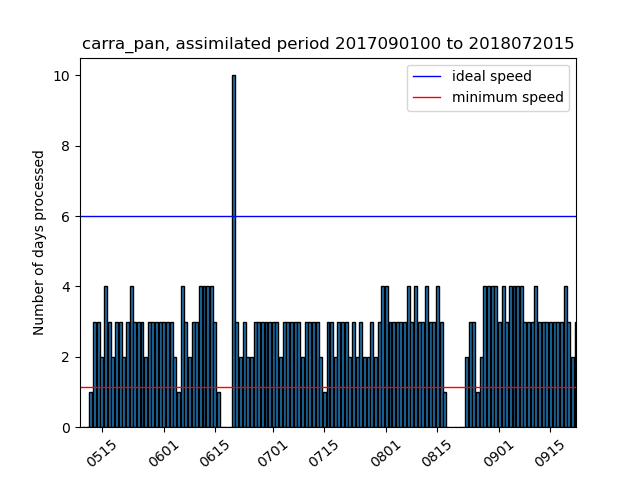
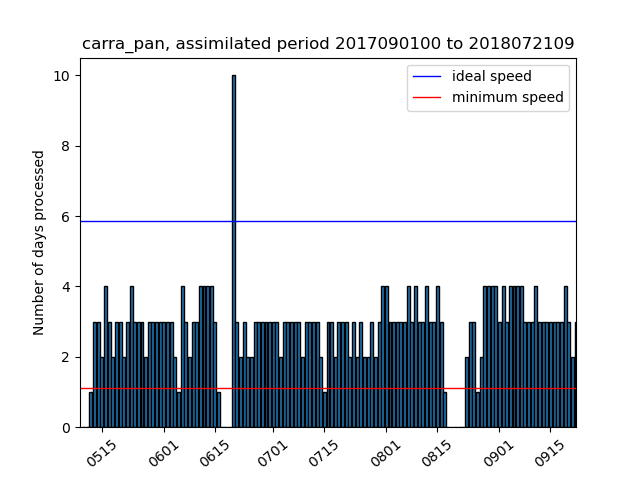
update repo

Changed region(s): [[0.125, 0.7812, 0.9062, 0.8125], [0.125, 0.4375, 0.9062, 0.4688], [0.8438, 0.0625, 0.9062, 0.125]]

diff --git a/current_state_sims.html b/current_state_sims.html
@@ -2,18 +2,18 @@
 <h1>Estimated completion dates and simulation speeds</h1>
 <p>Stream (production) completion date based on 30d (7d) moving avg speed</p>
 <p><a href="https://docs.google.com/document/d/1zDKAxuEXYnWWYzT3SZnZwY5WW8nodUMeYRjAGz46coc/edit#">Details of the calculation of the completion dates</a></p>
-<p>Last update: 2021/09/23 12:44:38 UTC</p>
+<p>Last update: 2021/09/23 18:48:34 UTC</p>
 <p>Total progress CARRA: 99.22% <a href="https://hirlam.org/portal/CARRA/Progress/GanntChart_CARRA.html"> (see detailed progress meter in Gantt chart) </a></p>
 <p>Total progress PANARCTIC: 90.91% </p>
 <p><a href="https://hirlam.org/portal/CARRA/Progress/waiting_times.html"> Queue waiting times for all streams</a></p>
 <p><a href="https://hirlam.org/portal/CARRA/Progress/mars_status.html"> MARS archive throughput </a></p>
 <html><table border="1"><tr><th>expId</th><th>Current assimilated date</th><th>End date of stream </th><th> Completion date</th><th> Avg. throughput (7d) </th> <th>Avg. throughput (30d) </th> <th> Remarks</tr>
-<tr bgcolor="#FFFFFF"><td>carra_NE_3</td><td>2021063000</td><td>2021063021</td><td>2021092312</td><td>(4.0) days/day</td><td>(3.63) days/day</td><td></tr>
-<tr bgcolor="#33FF38"><td>carra_NE_4</td><td>1992090100</td><td>1992083021</td><td>2021082412</td><td>(0.0) days/day</td><td>(0.07) days/day</td><td>Stream finished</tr>
-<tr bgcolor="#33FF38"><td>carra_NE_5</td><td>1994090100</td><td>1994083021</td><td>2021091112</td><td>(0.0) days/day</td><td>(0.17) days/day</td><td>Stream finished</tr>
-<tr bgcolor="#33FF38"><td>carra_NE_6</td><td>1997070100</td><td>1997063021</td><td>2021092308</td><td>(0.0) days/day</td><td>(5.33) days/day</td><td>Stream finished</tr>
-<tr bgcolor="#FFFFFF"><td>carra_IGB_3</td><td>2021063000</td><td>2021063021</td><td>2021092312</td><td>(4.71) days/day</td><td>(3.47) days/day</td><td></tr>
-<tr bgcolor="#33FF38"><td>carra_IGB_4</td><td>1992090100</td><td>1992083021</td><td>2021092221</td><td>(0.0) days/day</td><td>(3.13) days/day</td><td>Stream finished</tr>
-<tr bgcolor="#FFFFFF"><td>carra_IGB_5</td><td>1994082112</td><td>1994083021</td><td>2021092501</td><td>(5.86) days/day</td><td>(5.87) days/day</td><td></tr>
-<tr bgcolor="#FFA500"><td>carra_IGB_6</td><td>1996111500</td><td>1997063021</td><td>2021110110</td><td>(5.57) days/day</td><td>(5.83) days/day</td><td>Completion date after project end (20211031)</tr>
-<tr bgcolor="#FFFFFF"><td>carra_pan</td><td>2018072015</td><td>2018083121</td><td>2021100612</td><td>(3.0) days/day</td><td>(3.23) days/day</td><td></tr>
+<tr bgcolor="#FFFFFF"><td>carra_NE_3</td><td>2021063000</td><td>2021063021</td><td>2021092318</td><td>(4.0) days/day</td><td>(3.63) days/day</td><td></tr>
+<tr bgcolor="#33FF38"><td>carra_NE_4</td><td>1992090100</td><td>1992083021</td><td>2021082418</td><td>(0.0) days/day</td><td>(0.07) days/day</td><td>Stream finished</tr>
+<tr bgcolor="#33FF38"><td>carra_NE_5</td><td>1994090100</td><td>1994083021</td><td>2021091118</td><td>(0.0) days/day</td><td>(0.17) days/day</td><td>Stream finished</tr>
+<tr bgcolor="#33FF38"><td>carra_NE_6</td><td>1997070100</td><td>1997063021</td><td>2021092314</td><td>(0.0) days/day</td><td>(5.33) days/day</td><td>Stream finished</tr>
+<tr bgcolor="#FFFFFF"><td>carra_IGB_3</td><td>2021063000</td><td>2021063021</td><td>2021092318</td><td>(4.71) days/day</td><td>(3.47) days/day</td><td></tr>
+<tr bgcolor="#33FF38"><td>carra_IGB_4</td><td>1992090100</td><td>1992083021</td><td>2021092303</td><td>(0.0) days/day</td><td>(3.13) days/day</td><td>Stream finished</tr>
+<tr bgcolor="#FFFFFF"><td>carra_IGB_5</td><td>1994082300</td><td>1994083021</td><td>2021092423</td><td>(5.86) days/day</td><td>(5.87) days/day</td><td></tr>
+<tr bgcolor="#FFA500"><td>carra_IGB_6</td><td>1996111609</td><td>1997063021</td><td>2021110112</td><td>(5.57) days/day</td><td>(5.83) days/day</td><td>Completion date after project end (20211031)</tr>
+<tr bgcolor="#FFFFFF"><td>carra_pan</td><td>2018072109</td><td>2018083121</td><td>2021100611</td><td>(3.0) days/day</td><td>(3.23) days/day</td><td></tr>
